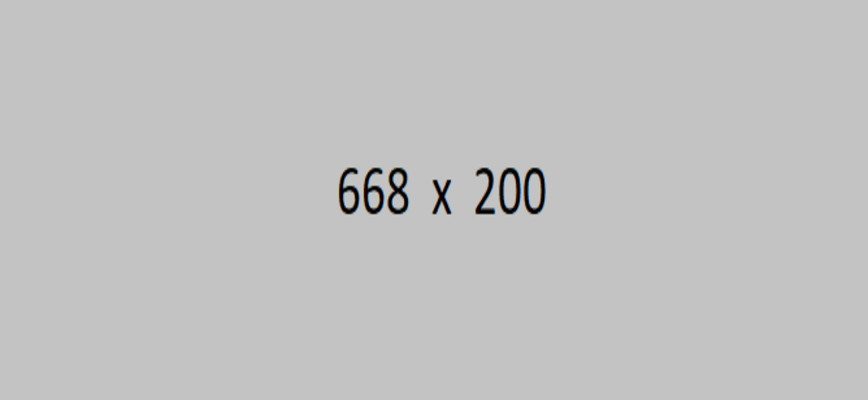
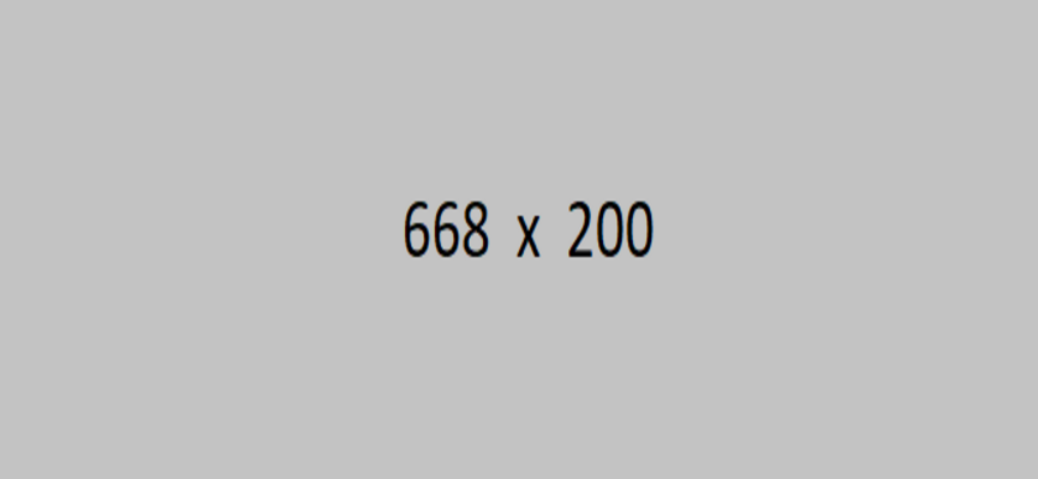
refactor: :zap: Se corrigio el ancho de la pagina

Changed region(s): [[0.4977, 0.42, 0.6532, 0.54], [0.3733, 0.42, 0.4666, 0.54], [0.4977, 0.45, 0.5288, 0.48]]

diff --git a/index.html b/index.html
@@ -48,14 +48,14 @@
                 <div>
                     <h2>Titulo del articulo del dia</h2>
                     <p>El día que aprendí Flexbox, 26-02-2024</p>
-                    <img class="img668" src="storage/img/img668x200.png" alt="668*200">
+                    <img class="img668" src="storage/img/img668x200.png" alt="668*200" style="height: 50%;">
                     <p>Atlético Nacional es un equipo de fútbol colombiano con una larga historia y una base de seguidores apasionados. Conocido por su estilo de juego ofensivo y sus habilidades tácticas, el equipo ha logrado numerosos éxitos a lo largo de los años.</p>
                     <p>Atlético Nacional es un equipo de fútbol colombiano con una larga historia y una base de seguidores apasionados. Conocido por su estilo de juego ofensivo y sus habilidades tácticas, el equipo ha logrado numerosos éxitos a lo largo de los años.</p>
-                </div>
+                    
                 <div>
                     <h2>Titulo del articulo del dia</h2>
                     <p>El día que aprendí Flexbox, 26-02-2024</p>
-                    <img class="img668" src="storage/img/img668x200.png" alt="668*200">
+                    <img class="img668" src="storage/img/img668x200.png" alt="668*200" style="height: 50%;">
                     <p>Atlético Nacional es un equipo de fútbol colombiano con una larga historia y una base de seguidores apasionados. Conocido por su estilo de juego ofensivo y sus habilidades tácticas, el equipo ha logrado numerosos éxitos a lo largo de los años.</p>
                     <p>Atlético Nacional es un equipo de fútbol colombiano con una larga historia y una base de seguidores apasionados. Conocido por su estilo de juego ofensivo y sus habilidades tácticas, el equipo ha logrado numerosos éxitos a lo largo de los años.</p>
                 </div>
